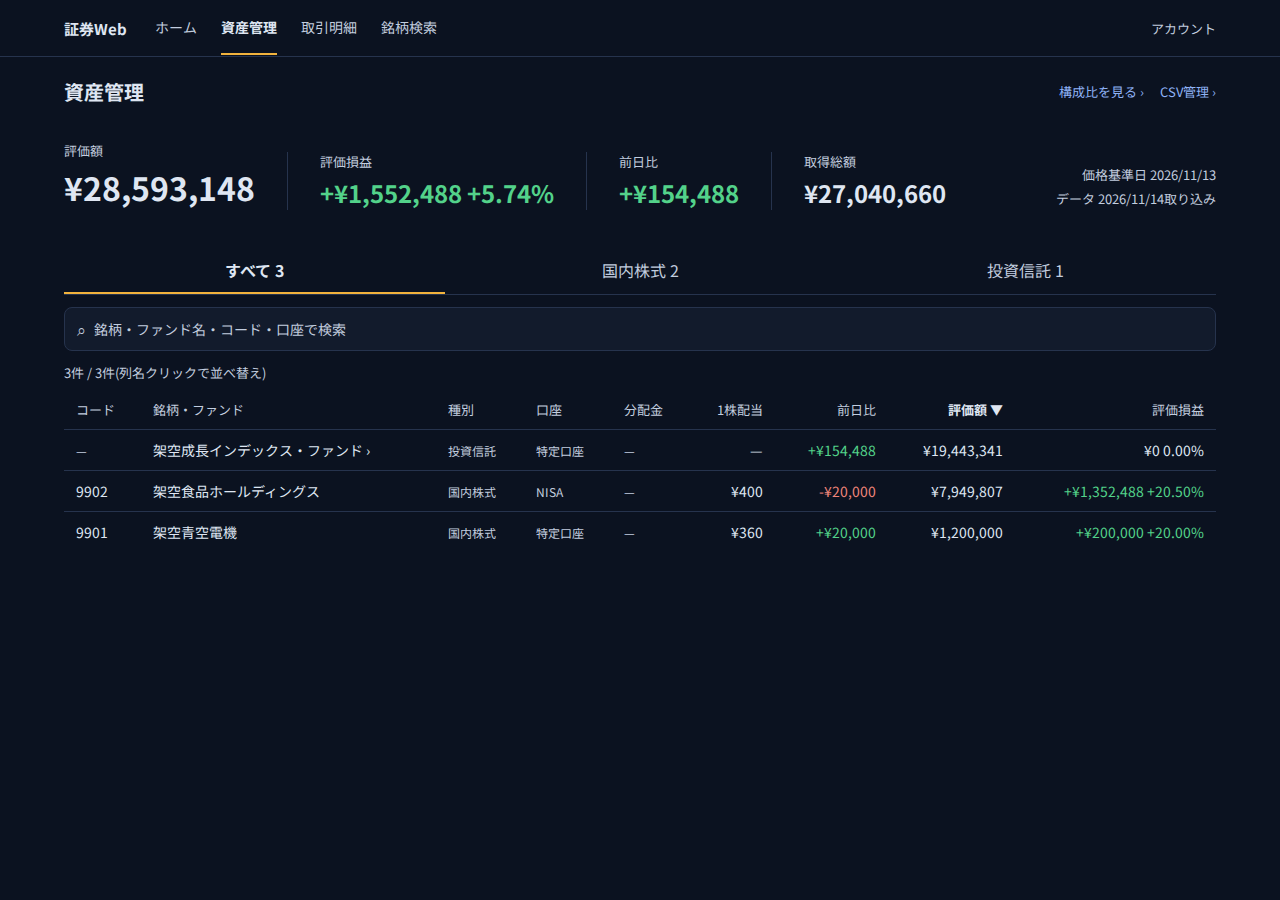
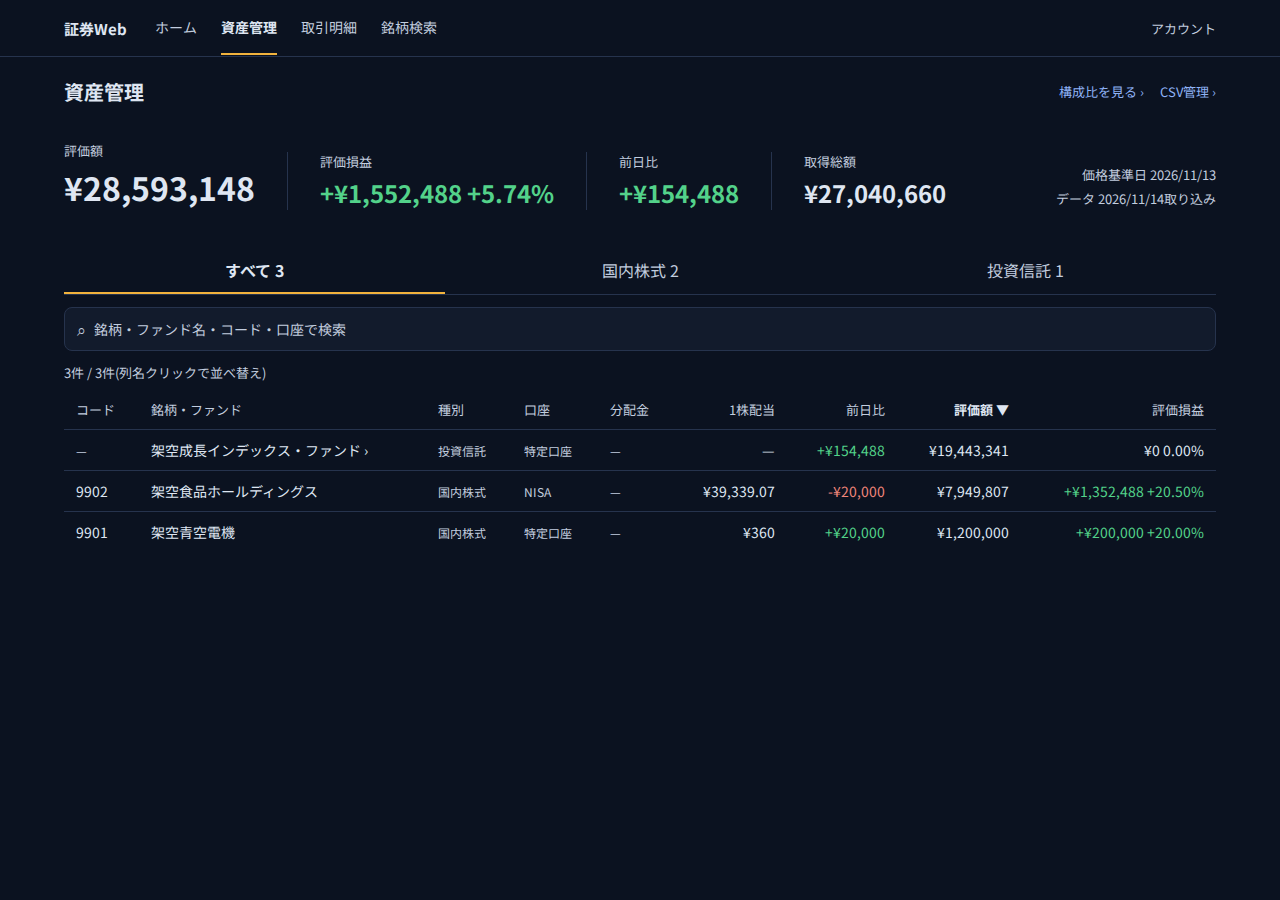
design: 9902の1株配当をfixturesどおり¥39,339.07に直す
ASSET_TABLE_Pの9902が¥400(単発の配当金と取り違え)で、構成比の年間配当¥3,933,907と矛盾していた。fixtures annualDividendPerShare 39339.07に合わせ、派生の保有株詳細ダイアログも再生成・再撮影。9901 ¥360/¥36,000=3.00%、合計¥3,969,907との整合をgrepで確認。build.mjsに年間配当=1株配当×株数の検算を追加(412 asserts通過)。Refs #1890

diff --git a/docs/design/work/phase9-screens/opencode/assetbalance-pc.html b/docs/design/work/phase9-screens/opencode/assetbalance-pc.html
@@ -158,7 +158,7 @@ table.grid .sb{font-size:12px; color:var(--mut); white-space:nowrap}
 <table class="grid" style="margin-top:8px">
       <tr><th>コード</th><th>銘柄・ファンド</th><th>種別</th><th>口座</th><th>分配金</th><th class="r">1株配当</th><th class="r">前日比</th><th class="r sortable">評価額 ▼</th><th class="r">評価損益</th></tr>
       <tr><td><span class="sb">—</span></td><td><div class="nm">架空成長インデックス・ファンド ›</div></td><td><span class="sb">投資信託</span></td><td><span class="sb">特定口座</span></td><td><span class="sb">—</span></td><td class="r num">—</td><td class="r num up">+¥154,488</td><td class="r num">¥19,443,341</td><td class="r num">¥0 0.00%</td></tr>
-      <tr><td class="num">9902</td><td><div class="nm">架空食品ホールディングス</div></td><td><span class="sb">国内株式</span></td><td><span class="sb">NISA</span></td><td><span class="sb">—</span></td><td class="r num">¥400</td><td class="r num down">-¥20,000</td><td class="r num">¥7,949,807</td><td class="r num up">+¥1,352,488 +20.50%</td></tr>
+      <tr><td class="num">9902</td><td><div class="nm">架空食品ホールディングス</div></td><td><span class="sb">国内株式</span></td><td><span class="sb">NISA</span></td><td><span class="sb">—</span></td><td class="r num">¥39,339.07</td><td class="r num down">-¥20,000</td><td class="r num">¥7,949,807</td><td class="r num up">+¥1,352,488 +20.50%</td></tr>
       <tr><td class="num">9901</td><td><div class="nm">架空青空電機</div></td><td><span class="sb">国内株式</span></td><td><span class="sb">特定口座</span></td><td><span class="sb">—</span></td><td class="r num">¥360</td><td class="r num up">+¥20,000</td><td class="r num">¥1,200,000</td><td class="r num up">+¥200,000 +20.00%</td></tr>
     </table></div>
 <script>

diff --git a/docs/design/work/phase9-screens/rest/dialogs-state-holding-pc.html b/docs/design/work/phase9-screens/rest/dialogs-state-holding-pc.html
@@ -166,7 +166,7 @@ table.grid .sb{font-size:12px; color:var(--mut); white-space:nowrap}
 <table class="grid" style="margin-top:8px">
       <tr><th>コード</th><th>銘柄・ファンド</th><th>種別</th><th>口座</th><th>分配金</th><th class="r">1株配当</th><th class="r">前日比</th><th class="r sortable">評価額 ▼</th><th class="r">評価損益</th></tr>
       <tr><td><span class="sb">—</span></td><td><div class="nm">架空成長インデックス・ファンド ›</div></td><td><span class="sb">投資信託</span></td><td><span class="sb">特定口座</span></td><td><span class="sb">—</span></td><td class="r num">—</td><td class="r num up">+¥154,488</td><td class="r num">¥19,443,341</td><td class="r num">¥0 0.00%</td></tr>
-      <tr><td class="num">9902</td><td><div class="nm">架空食品ホールディングス</div></td><td><span class="sb">国内株式</span></td><td><span class="sb">NISA</span></td><td><span class="sb">—</span></td><td class="r num">¥400</td><td class="r num down">-¥20,000</td><td class="r num">¥7,949,807</td><td class="r num up">+¥1,352,488 +20.50%</td></tr>
+      <tr><td class="num">9902</td><td><div class="nm">架空食品ホールディングス</div></td><td><span class="sb">国内株式</span></td><td><span class="sb">NISA</span></td><td><span class="sb">—</span></td><td class="r num">¥39,339.07</td><td class="r num down">-¥20,000</td><td class="r num">¥7,949,807</td><td class="r num up">+¥1,352,488 +20.50%</td></tr>
       <tr><td class="num">9901</td><td><div class="nm">架空青空電機</div></td><td><span class="sb">国内株式</span></td><td><span class="sb">特定口座</span></td><td><span class="sb">—</span></td><td class="r num">¥360</td><td class="r num up">+¥20,000</td><td class="r num">¥1,200,000</td><td class="r num up">+¥200,000 +20.00%</td></tr>
     </table></div>
 <script>

diff --git a/docs/design/work/phase9-screens/opencode/tools/gen.py b/docs/design/work/phase9-screens/opencode/tools/gen.py
@@ -274,7 +274,7 @@ ASSET_HERO_P = """<div class="hero">
 ASSET_TABLE_P = """<table class="grid" style="margin-top:8px">
       <tr><th>コード</th><th>銘柄・ファンド</th><th>種別</th><th>口座</th><th>分配金</th><th class="r">1株配当</th><th class="r">前日比</th><th class="r sortable">評価額 ▼</th><th class="r">評価損益</th></tr>
       <tr><td><span class="sb">—</span></td><td><div class="nm">架空成長インデックス・ファンド ›</div></td><td><span class="sb">投資信託</span></td><td><span class="sb">特定口座</span></td><td><span class="sb">—</span></td><td class="r num">—</td><td class="r num up">+¥154,488</td><td class="r num">¥19,443,341</td><td class="r num">¥0 0.00%</td></tr>
-      <tr><td class="num">9902</td><td><div class="nm">架空食品ホールディングス</div></td><td><span class="sb">国内株式</span></td><td><span class="sb">NISA</span></td><td><span class="sb">—</span></td><td class="r num">¥400</td><td class="r num down">-¥20,000</td><td class="r num">¥7,949,807</td><td class="r num up">+¥1,352,488 +20.50%</td></tr>
+      <tr><td class="num">9902</td><td><div class="nm">架空食品ホールディングス</div></td><td><span class="sb">国内株式</span></td><td><span class="sb">NISA</span></td><td><span class="sb">—</span></td><td class="r num">¥39,339.07</td><td class="r num down">-¥20,000</td><td class="r num">¥7,949,807</td><td class="r num up">+¥1,352,488 +20.50%</td></tr>
       <tr><td class="num">9901</td><td><div class="nm">架空青空電機</div></td><td><span class="sb">国内株式</span></td><td><span class="sb">特定口座</span></td><td><span class="sb">—</span></td><td class="r num">¥360</td><td class="r num up">+¥20,000</td><td class="r num">¥1,200,000</td><td class="r num up">+¥200,000 +20.00%</td></tr>
     </table>"""
 

diff --git a/docs/design/work/phase5-codex/data-check.md b/docs/design/work/phase5-codex/data-check.md
@@ -1,6 +1,6 @@
 # Phase 5 Codex 数値検算
 
-このファイルは `node docs/design/work/phase5-codex/data/build.mjs` が生成する。金額は円単位に四捨五入し、投資信託は口数×基準価額÷10,000 で計算。全 409 assert 通過(不一致 0)。
+このファイルは `node docs/design/work/phase5-codex/data/build.mjs` が生成する。金額は円単位に四捨五入し、投資信託は口数×基準価額÷10,000 で計算。全 412 assert 通過(不一致 0)。
 
 | 項目 | 計算・内訳 | 判定 |
 |---|---|---|
